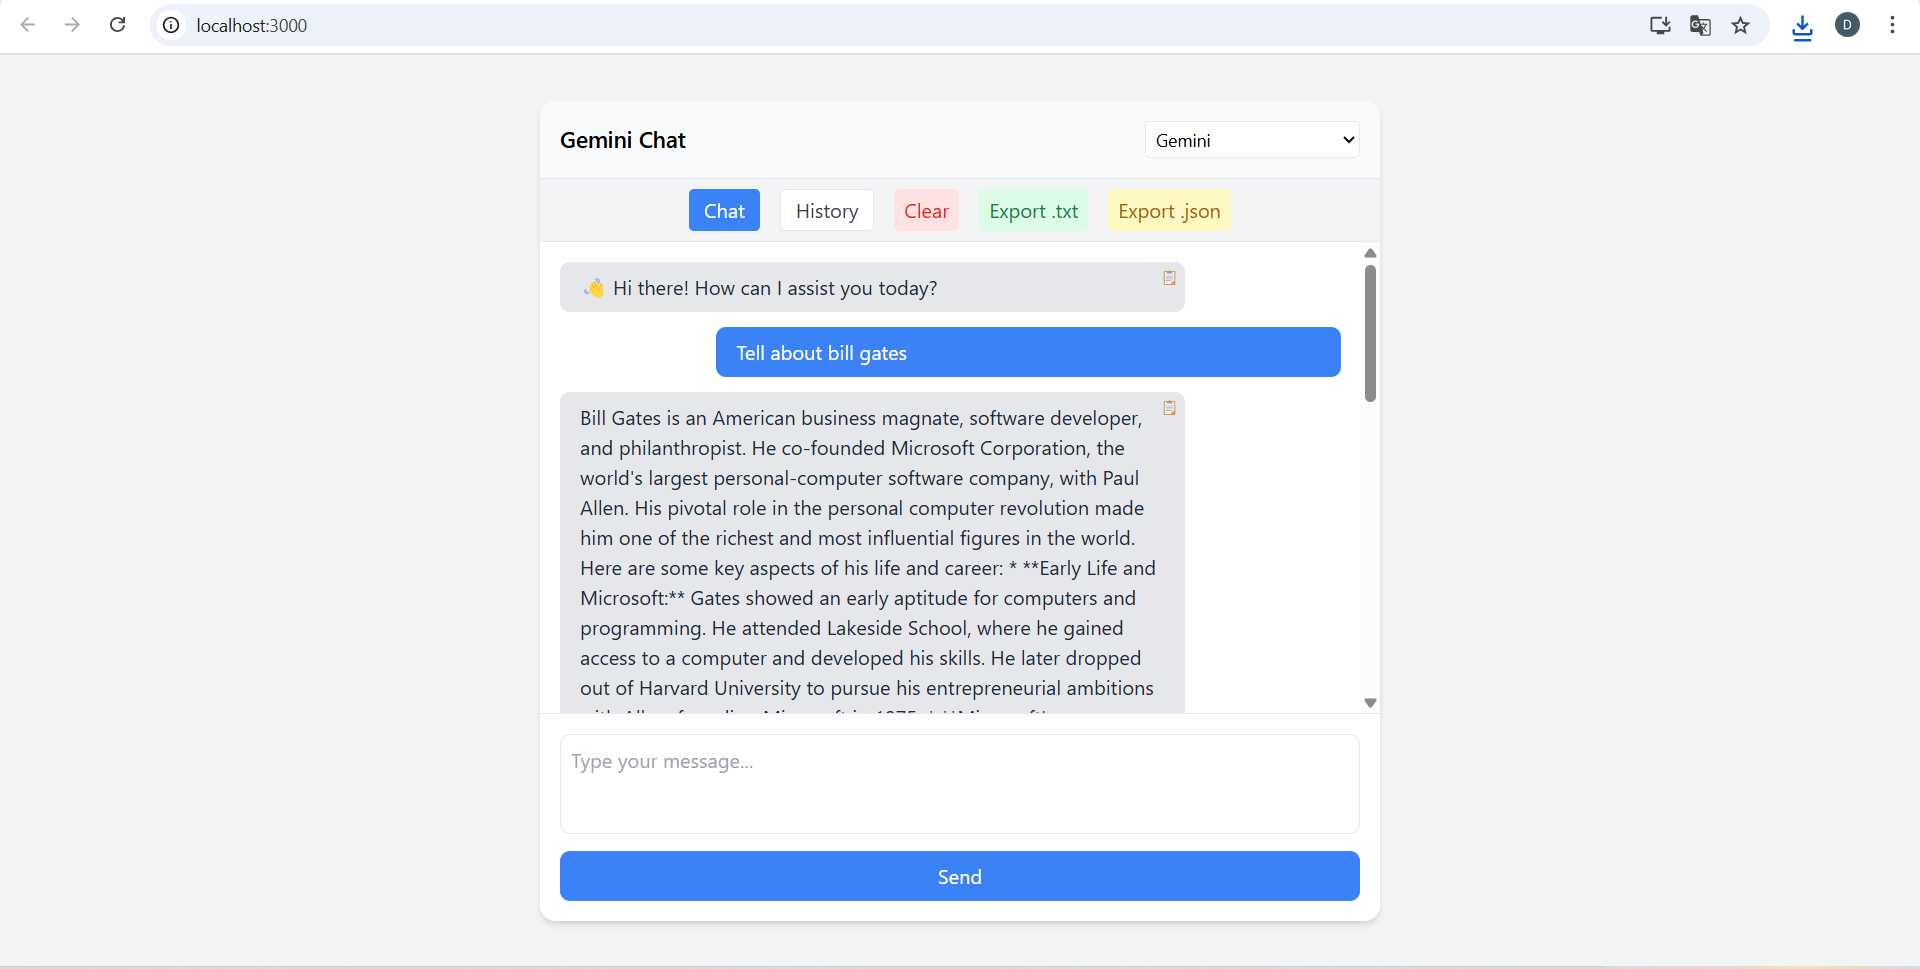
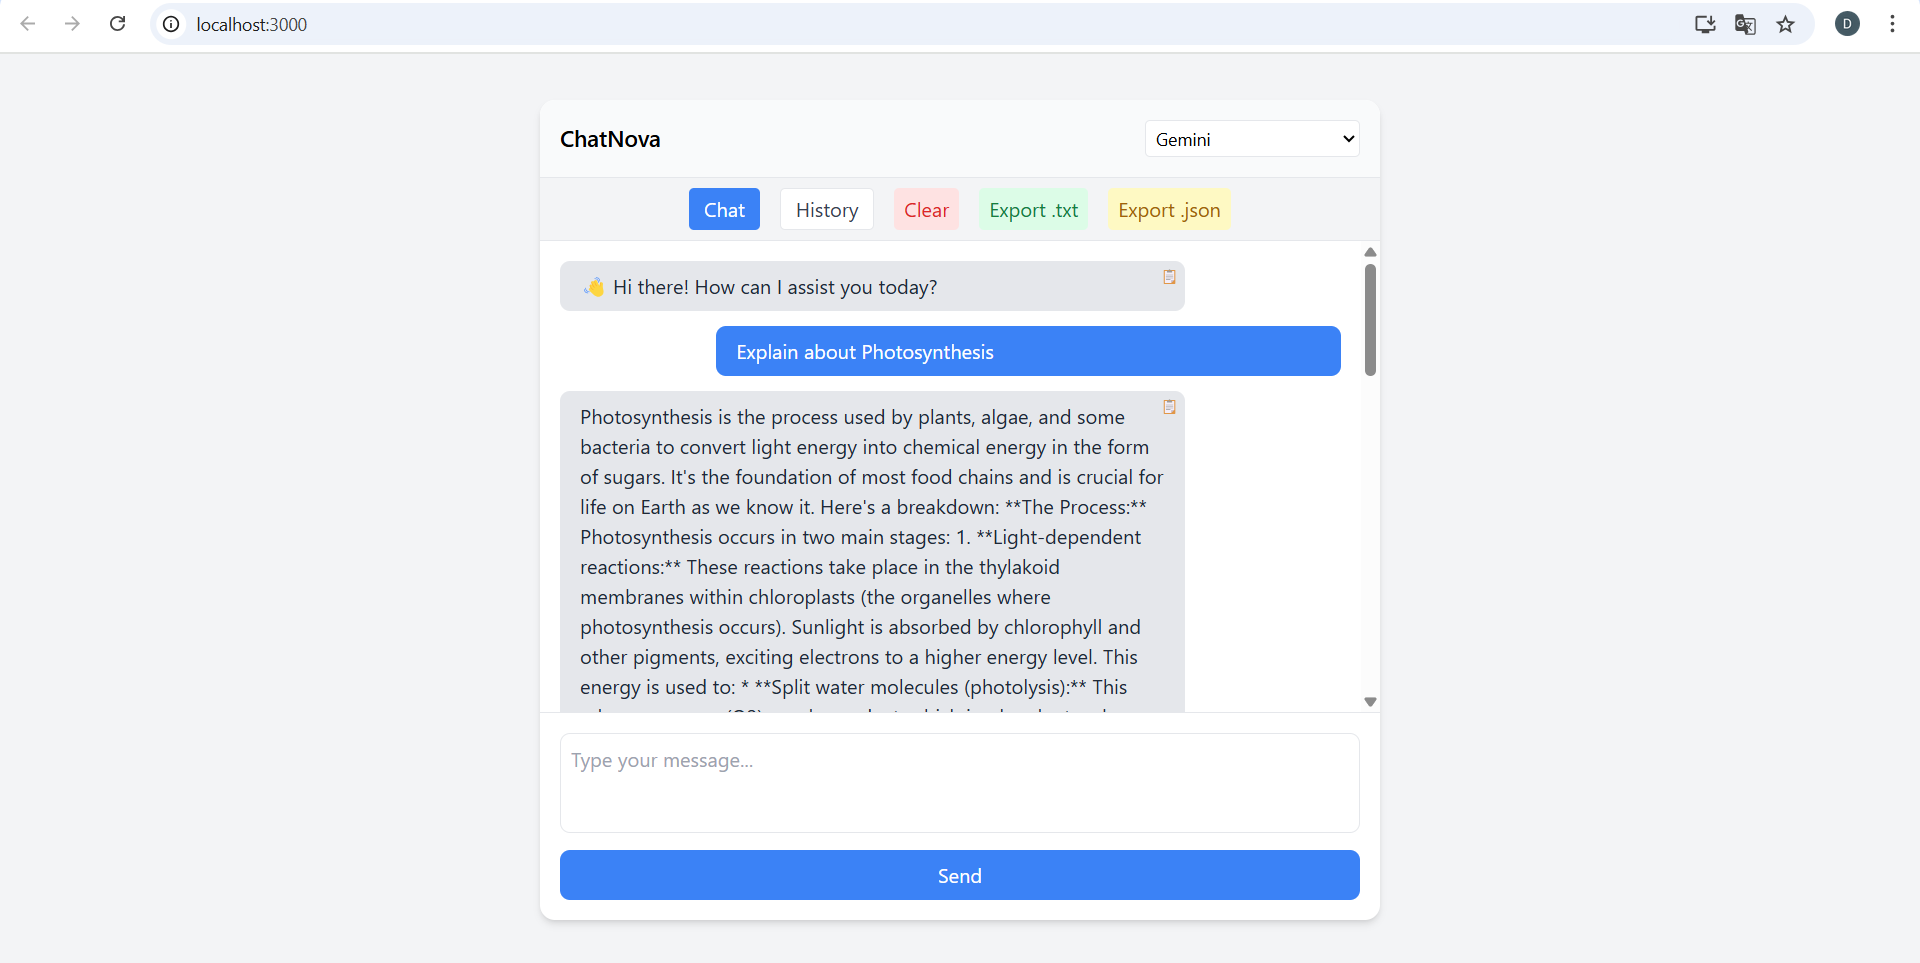
chore: update title to ChatNova and refresh screenshot

diff --git a/client/src/App.js b/client/src/App.js
@@ -126,7 +126,7 @@ function App() {
     <div className="min-h-screen bg-gray-100 flex flex-col items-center justify-center px-2 py-4 sm:px-4 sm:py-6">
       <div className="w-full max-w-2xl h-[90vh] bg-white rounded-xl shadow-md flex flex-col overflow-hidden">
         <div className="flex items-center justify-between p-4 border-b bg-gray-50">
-          <h1 className="text-lg font-semibold">Gemini Chat</h1>
+          <h1 className="text-lg font-semibold">ChatNova</h1>
           <select
             className="border rounded p-1 text-sm"
             value={selectedModel}
